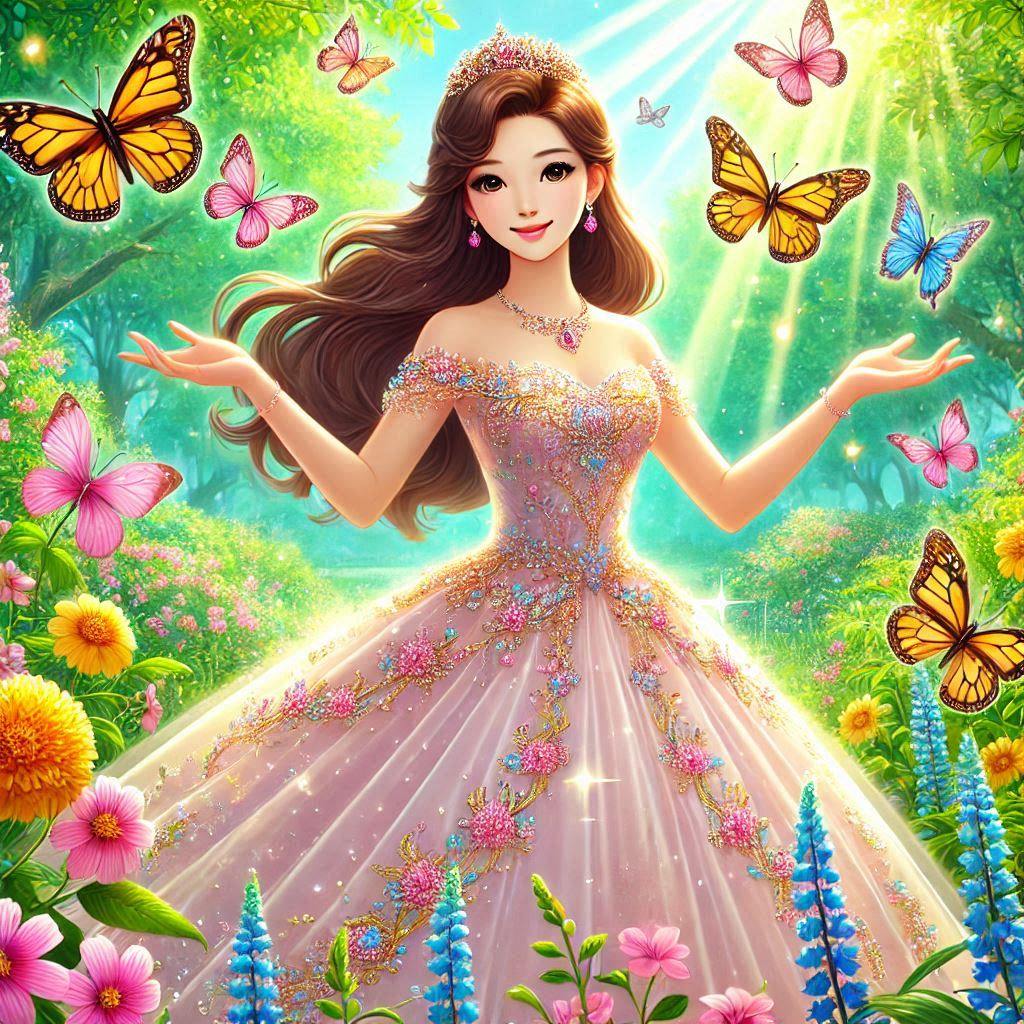
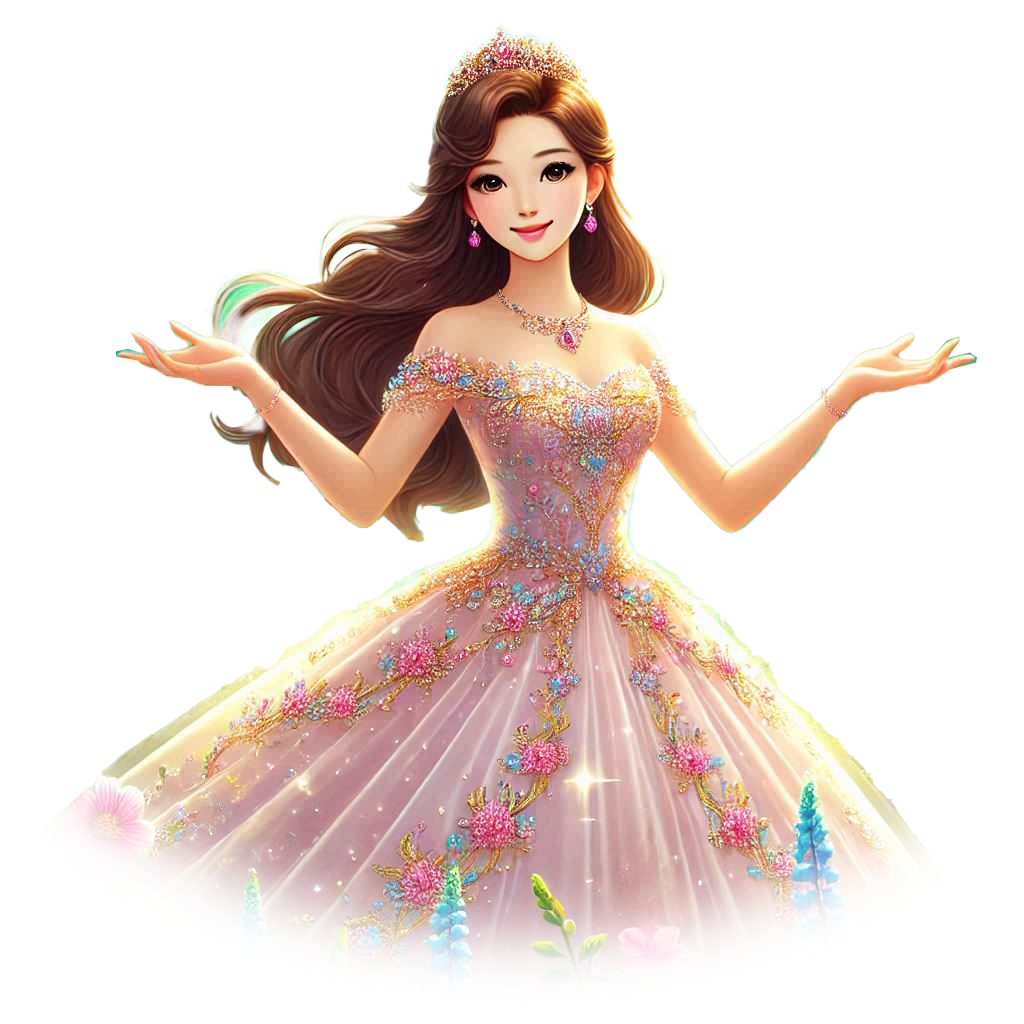
Extract princess to separate layer

diff --git a/src/Components/Environment.tsx b/src/Components/Environment.tsx
@@ -49,7 +49,8 @@ export const Environment: FunctionComponent<{
 				</div>
 			)}
 			<div className={styles.segment}>
-				<img src={princess} />
+				<img src={princess} className={styles.princess} />
+				<img src={grass} />
 			</div>
 			{segments.map((segment, index) => (
 				<div className={styles.segment} key={index}>

diff --git a/src/Components/Environment.module.css b/src/Components/Environment.module.css
@@ -6,6 +6,7 @@
 	position: relative;
 }
 .segment {
+	position: relative;
 	display: grid;
 	align-items: center;
 	max-width: 8rem;
@@ -26,4 +27,9 @@
 
 .fakeAnimationOfSteps ~ .segment {
 	opacity: 0.1;
+}
+
+.princess {
+	position: absolute;
+	inset: 0;
 }
